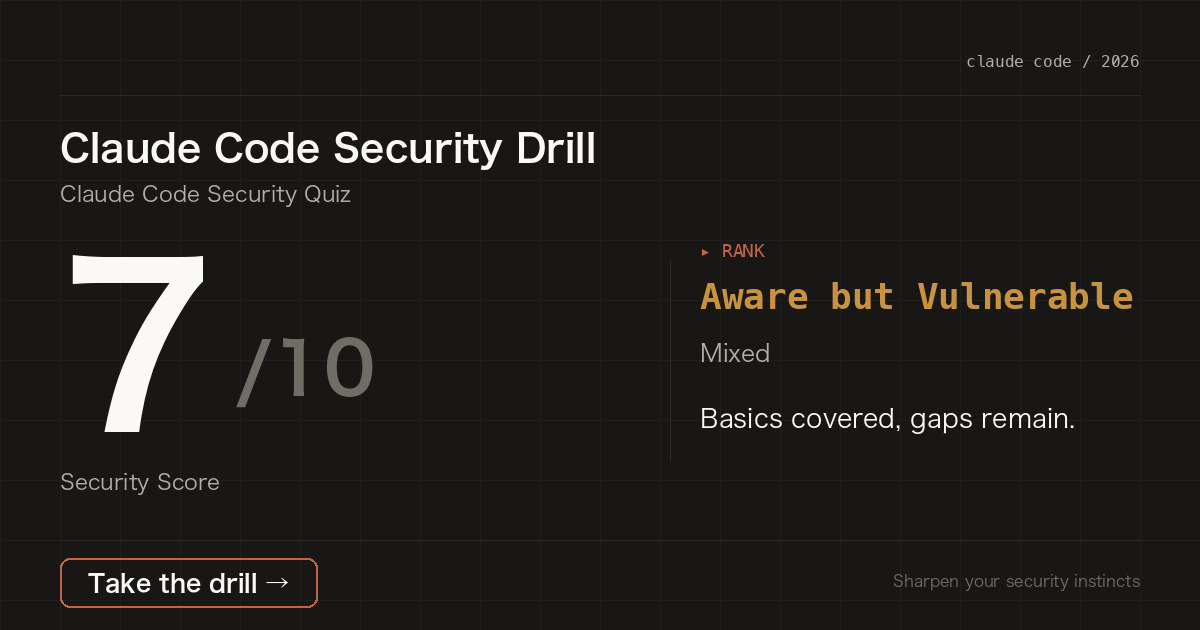
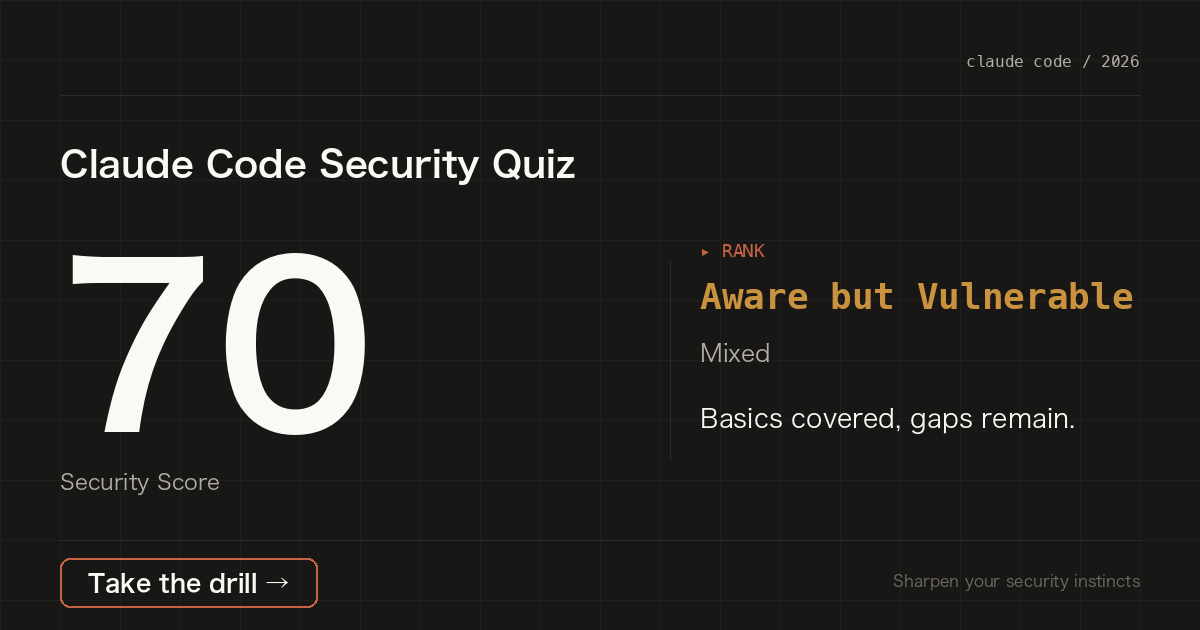
Simplify OGP card: single title, 0-100 score scale
- Drop the brand line and use only the quiz subtitle as the top-left header
- Display the score on a 0-100 scale (score*10) and remove the "/10"
  denominator so the number reads unambiguously on small share cards

Changed region(s): [[0.0308, 0.2111, 0.4933, 0.3317], [0.185, 0.3921, 0.3083, 0.6937]]

diff --git a/scripts/generate_og_images.py b/scripts/generate_og_images.py
@@ -50,31 +50,18 @@ def make_og(score, lang, output_path):
     # Horizontal divider
     draw.line([(60, 95), (W - 60, 95)], fill=LINE, width=1)
 
-    # Brand title + clarifying subtitle so the card reads "this is a quiz"
-    title_font = load_font("sans_bold", 38, lang)
-    draw.text((60, 128), strings["title"], fill=INK, font=title_font)
-    subtitle_font = load_font("sans_reg", 22, lang)
-    draw.text((60, 182), strings["subtitle"], fill=INK_DIM, font=subtitle_font)
+    # Single brand line — clarifies "this is a quiz" without a separate subtitle.
+    title_font = load_font("sans_bold", 36, lang)
+    draw.text((60, 145), strings["title"], fill=INK, font=title_font)
 
-    # Massive score (left)
+    # Massive score on a 0–100 scale (score is 0..10 internally, ×10 for display)
+    # so the number is unambiguous on a Twitter card without a "/10" denominator.
     score_font = load_font("sans_bold", 220, lang)
-    score_text = f"{score}"
+    score_text = f"{score * 10}"
     score_bbox = draw.textbbox((0, 0), score_text, font=score_font)
-    score_w = score_bbox[2] - score_bbox[0]
-    score_h = score_bbox[3] - score_bbox[1]
     score_x = 60
     score_y = 235
-    # Score number is always INK; only the rank itself carries the status color.
     draw.text((score_x, score_y), score_text, fill=INK, font=score_font)
-
-    # /10 next to score
-    out_of_font = load_font("sans_bold", 72, lang)
-    out_of_text = "/10"
-    out_of_x = score_x + score_w + 18
-    out_of_bbox = draw.textbbox((0, 0), out_of_text, font=out_of_font)
-    out_of_h = out_of_bbox[3] - out_of_bbox[1]
-    out_of_y = score_y + score_h - out_of_h - 10
-    draw.text((out_of_x, out_of_y), out_of_text, fill=INK_FAINT, font=out_of_font)
 
     # Score caption — anchors what the big number actually is
     score_label_font = load_font("sans_reg", 22, lang)

diff --git a/scripts/_common.py b/scripts/_common.py
@@ -89,8 +89,7 @@ def get_rank(score, lang="ja"):
 # OG card per-score message + brand title + bottom CTA
 OG_STRINGS = {
     "ja": {
-        "title": "Claude Codeセキュリティドリル",
-        "subtitle": "Claude Code セキュリティ理解度チェック",
+        "title": "Claude Codeセキュリティ理解度チェック",
         "score_label": "セキュリティスコア",
         "rank_label": "RANK",
         "rank_subtitles": {
@@ -111,8 +110,7 @@ OG_STRINGS = {
         "tagline": "Claude Codeでセキュリティ感覚を鍛える",
     },
     "en": {
-        "title": "Claude Code Security Drill",
-        "subtitle": "Claude Code Security Quiz",
+        "title": "Claude Code Security Quiz",
         "score_label": "Security Score",
         "rank_label": "RANK",
         "rank_subtitles": {
